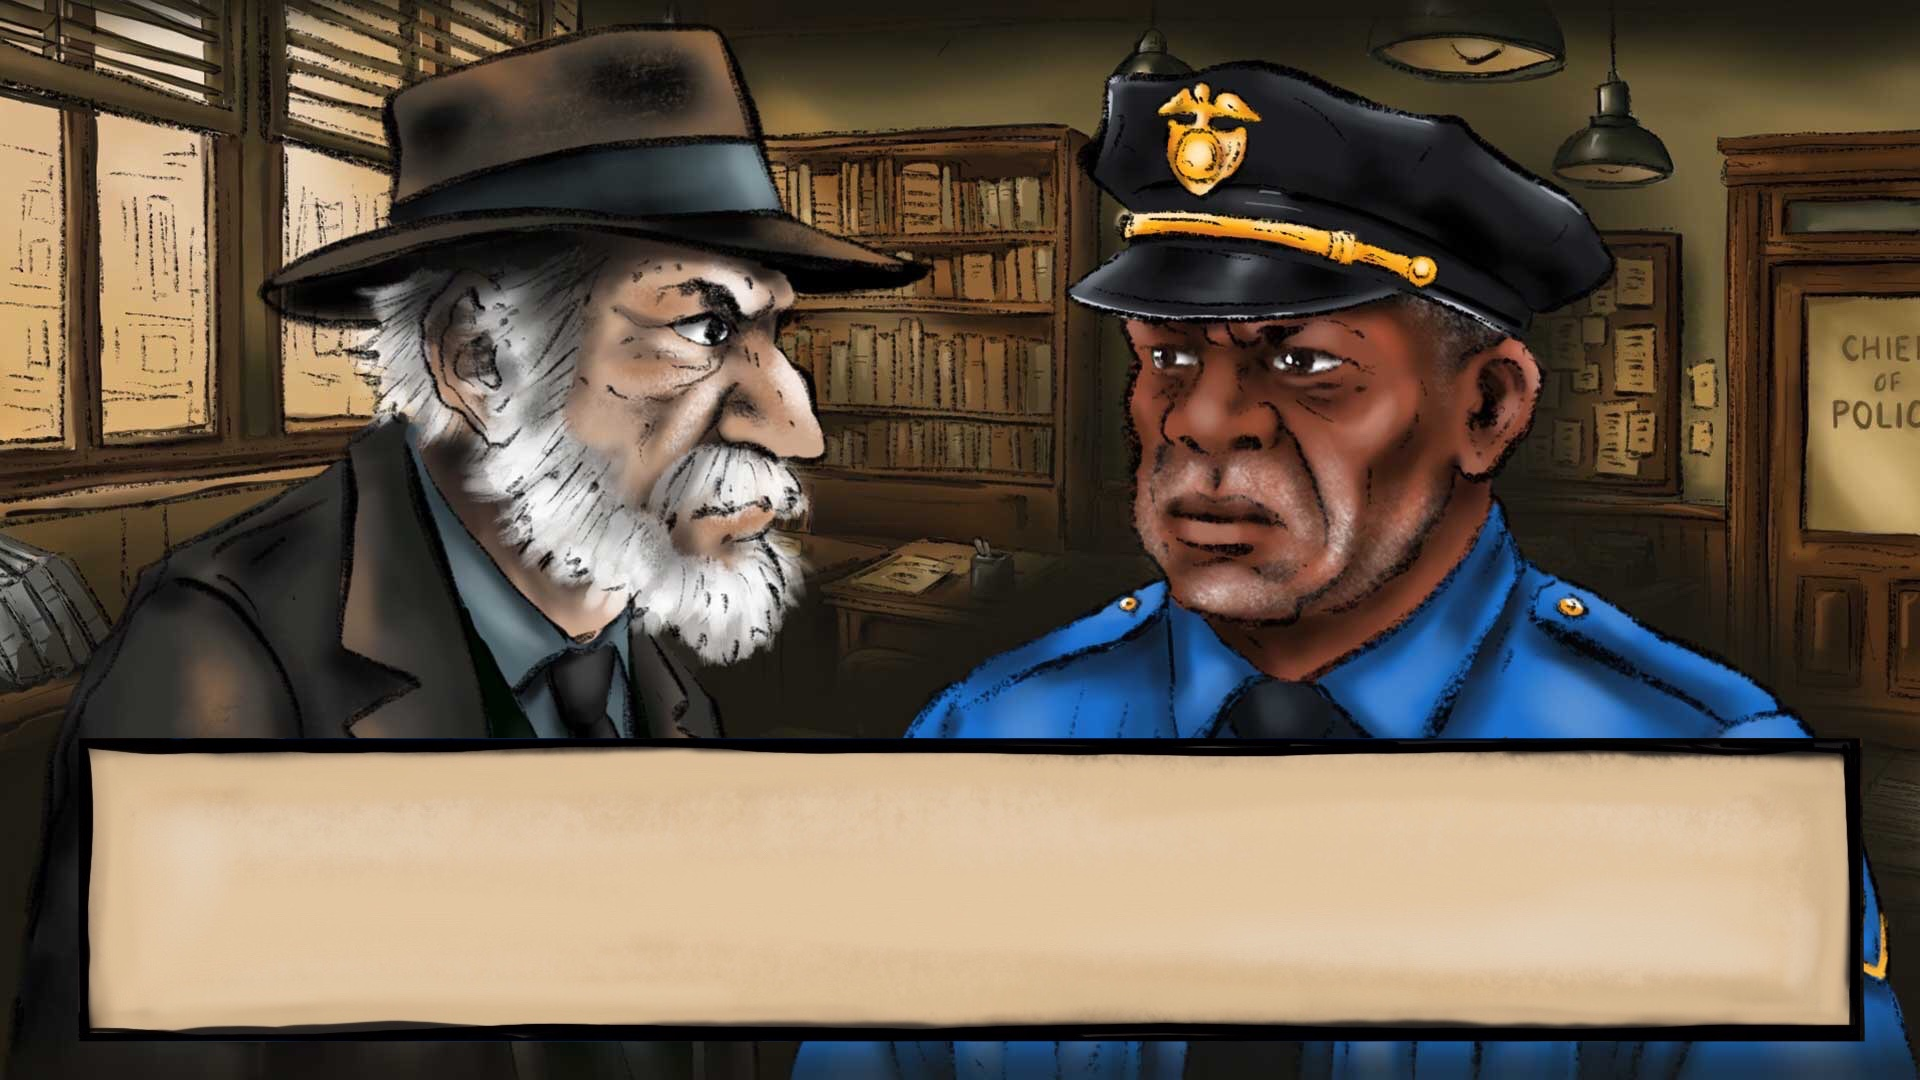
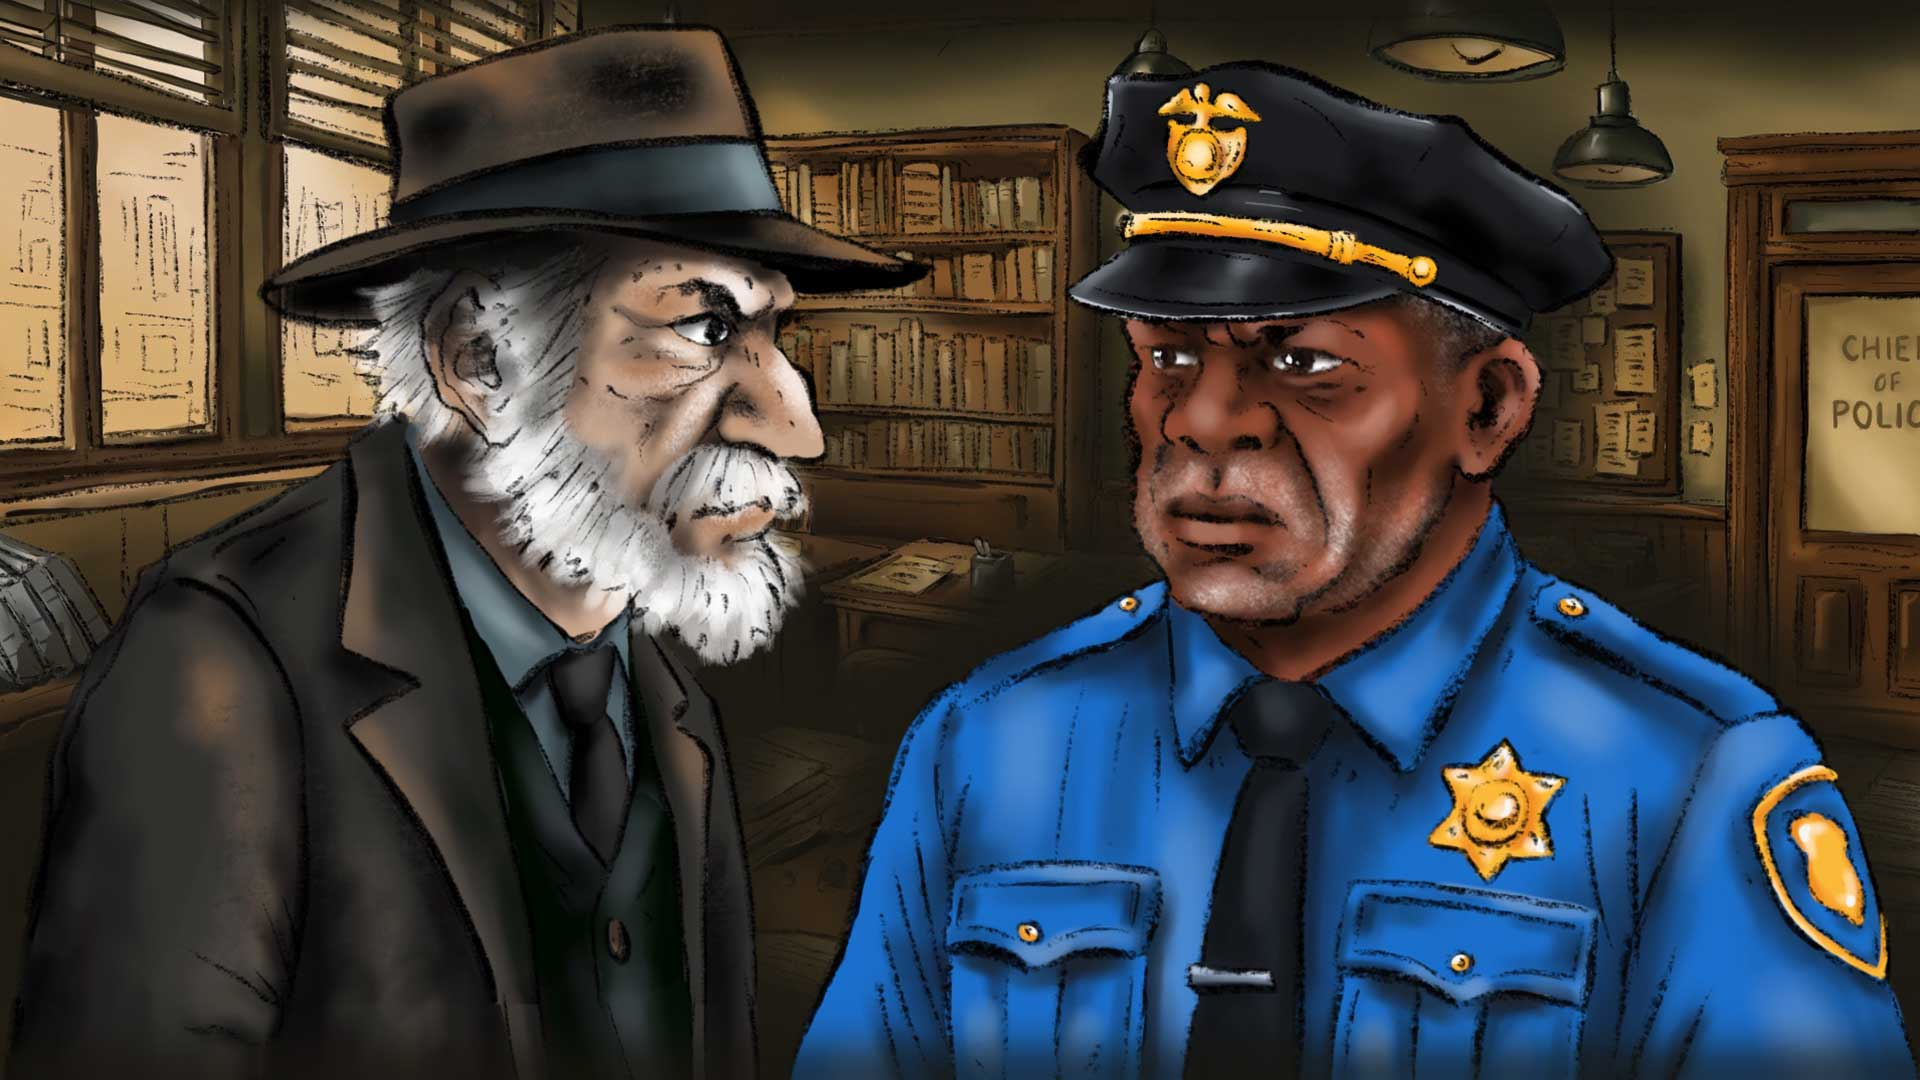
feature: éviter d'étiré l'image

Changed region(s): [[0.0312, 0.6722, 0.9688, 0.9778]]

diff --git a/src/GameDevSoftware/modules/CaseoftheCenturyTheForbiddenCouple/scenes/SceneComicsDoubleScene/index.tsx b/src/GameDevSoftware/modules/CaseoftheCenturyTheForbiddenCouple/scenes/SceneComicsDoubleScene/index.tsx
@@ -47,6 +47,11 @@ const SceneComicsDouble: SceneComponentProps<{}, SceneComicsDoubleProps> = (
     return getGameObject<Character>(texts[i].character);
   }, [i]);
 
+  const backgroundImage = useMemo(() => {
+    // @ts-ignore
+    return texts[i].backgroundImage;
+  }, [i]);
+
   const { nextScene } = useScene(props.data, {
     musics: [
       {
@@ -74,7 +79,22 @@ const SceneComicsDouble: SceneComponentProps<{}, SceneComicsDoubleProps> = (
               setOpenParemeters(true);
             }}
           />
-          <ImgComponent src={image} forceMaxSize={false} />
+          <ImgComponent
+            className="image-background"
+            src={backgroundImage}
+            forceMaxSize={false}
+          />
+          <ImgComponent
+            className="image-box-buble"
+            src="CADRE 1.png"
+            forceMaxSize={false}
+            style={{
+              top: `calc(${boxDialog.top}% - 20px)`,
+              left: `calc(${boxDialog.left}% - 30px)`,
+              width: `calc(${boxDialog.width}% + 60px)`,
+              height: `calc(${boxDialog.height}% + 40px)`,
+            }}
+          />
           <SceneComicsDoubleTextTextContainer
             $showBuble={showBubble}
             $fontFamily={characterObject.fontFamily}

diff --git a/src/GameDevSoftware/modules/CaseoftheCenturyTheForbiddenCouple/scenes/SceneGifWithTextScene/styles.ts b/src/GameDevSoftware/modules/CaseoftheCenturyTheForbiddenCouple/scenes/SceneGifWithTextScene/styles.ts
@@ -10,10 +10,21 @@ export const SceneGifWithTextContainer = styled.div<{ $nextManuelly: boolean }>`
   left: 50%;
   transform: translate(-50%, -50%);
   ${(props) => props.$nextManuelly && "cursor: pointer;"}
-  img {
+  img.image-background {
     width: 100%;
     height: 100%;
     border-radius: 10px;
+    object-fit: cover;
+    object-position: center top;
+  }
+  img.image-box-buble {
+    position: absolute;
+    top: calc(77% - 20px);
+    left: calc(11% - 30px);
+    width: calc(81% + 60px);
+    height: calc(16% + 40px);
+    max-width: 1920px;
+    max-height: 365px;
   }
 `;
 

diff --git a/src/GameDevSoftware/modules/CaseoftheCenturyTheForbiddenCouple/scenes/SceneGifWithTextScene/index.tsx b/src/GameDevSoftware/modules/CaseoftheCenturyTheForbiddenCouple/scenes/SceneGifWithTextScene/index.tsx
@@ -78,7 +78,11 @@ const SceneGifWithText: ChapterTitleComponentProps = (props) => {
               setOpenParemeters(true);
             }}
           />
-          <ImgComponent src={backgroundImage} forceMaxSize={false} />
+          <ImgComponent
+            className="image-background"
+            src={backgroundImage}
+            forceMaxSize={false}
+          />
           <SceneGifWithTextTextContainer
             $showBuble={showBubble}
             $fontFamily={characterObject.fontFamily}

diff --git a/src/GameDevSoftware/modules/CaseoftheCenturyTheForbiddenCouple/components/ContinueArrowComponent/index.tsx b/src/GameDevSoftware/modules/CaseoftheCenturyTheForbiddenCouple/components/ContinueArrowComponent/index.tsx
@@ -17,7 +17,7 @@ const ContinueArrowComponentContainer = styled.div`
   height: 30px;
   transform: rotate(180deg);
   position: absolute;
-  bottom: -8px;
+  bottom: -16px;
   right: -8px;
   cursor: pointer;
 `;
